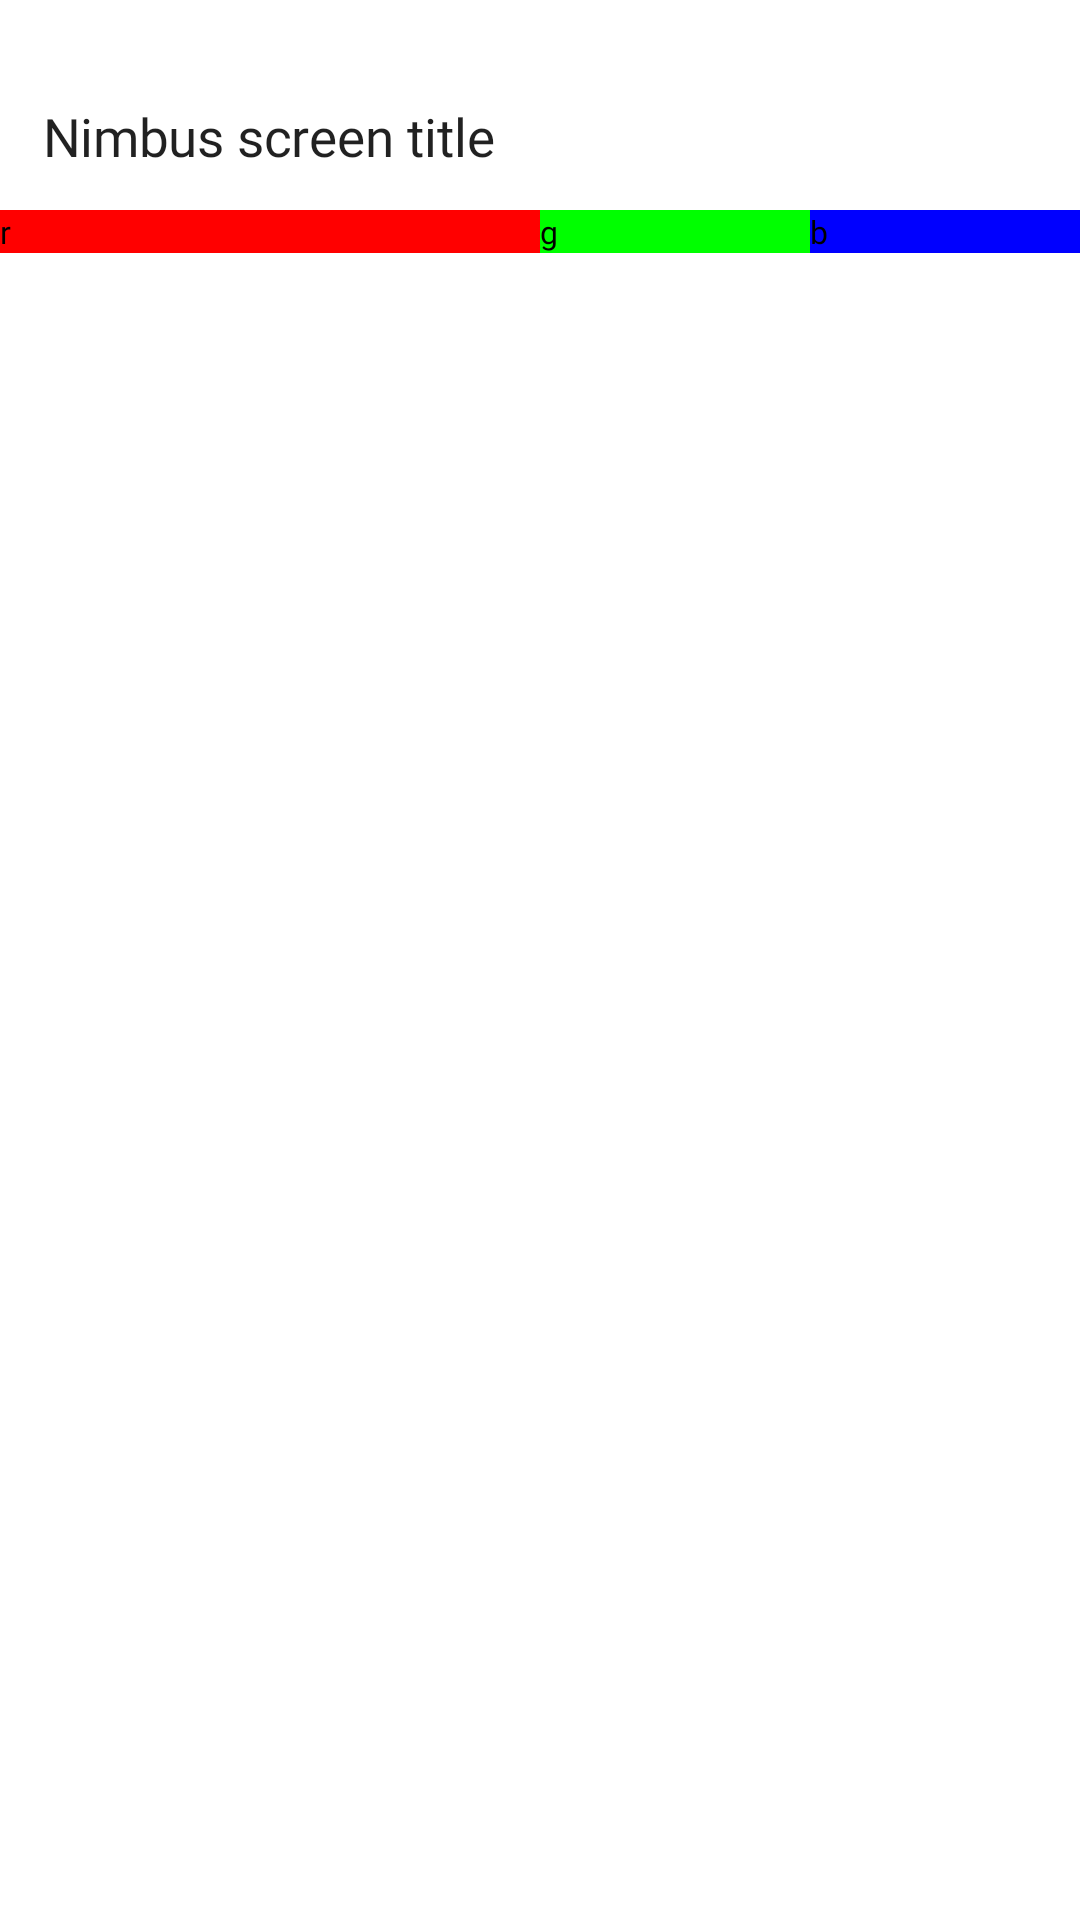
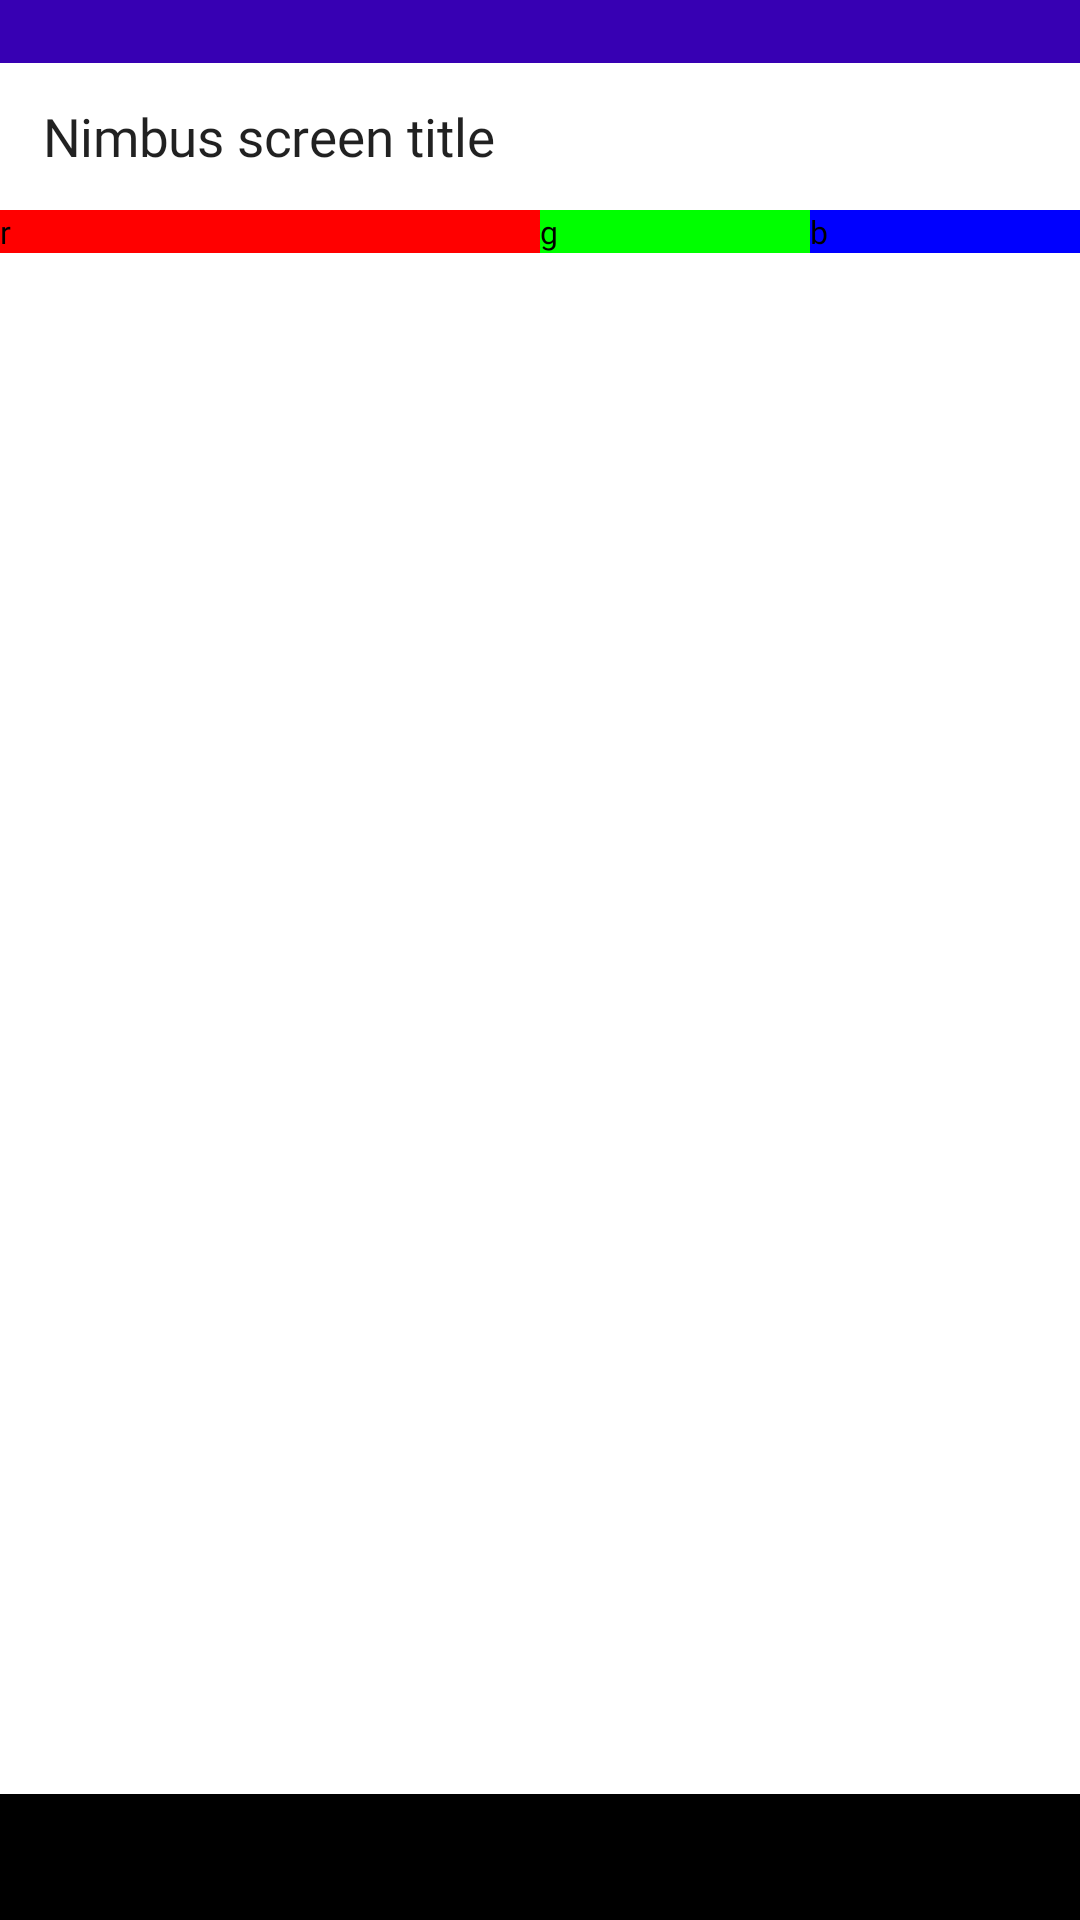
fix: screen (#27)
* fixes screen component when theres more to teh screen than the server driven view

* updates screenshots for screen tests

Changed region(s): [[0.0, 0.9375, 1.0, 1.0], [0.0, 0.0, 1.0, 0.0312]]

diff --git a/layout/src/main/java/br/com/zup/nimbus/compose/layout/component/Screen.kt b/layout/src/main/java/br/com/zup/nimbus/compose/layout/component/Screen.kt
@@ -38,7 +38,9 @@ internal fun Screen(
 ) {
     val ignoreSafeArea = requireNotNull(model.ignoreSafeArea)
 
-    ConfigureSafeArea()
+    // The following line has been commented because it doesn't work unless the server driven view
+    // is the only thing in the screen.
+    // ConfigureSafeArea()
 
     Scaffold(
         modifier = modifier,
@@ -102,4 +104,3 @@ internal fun ConfigureSafeArea() {
         systemUiController.setSystemBarsColor(Color.Transparent, darkIcons = useDarkIcons)
     }
 }
-
